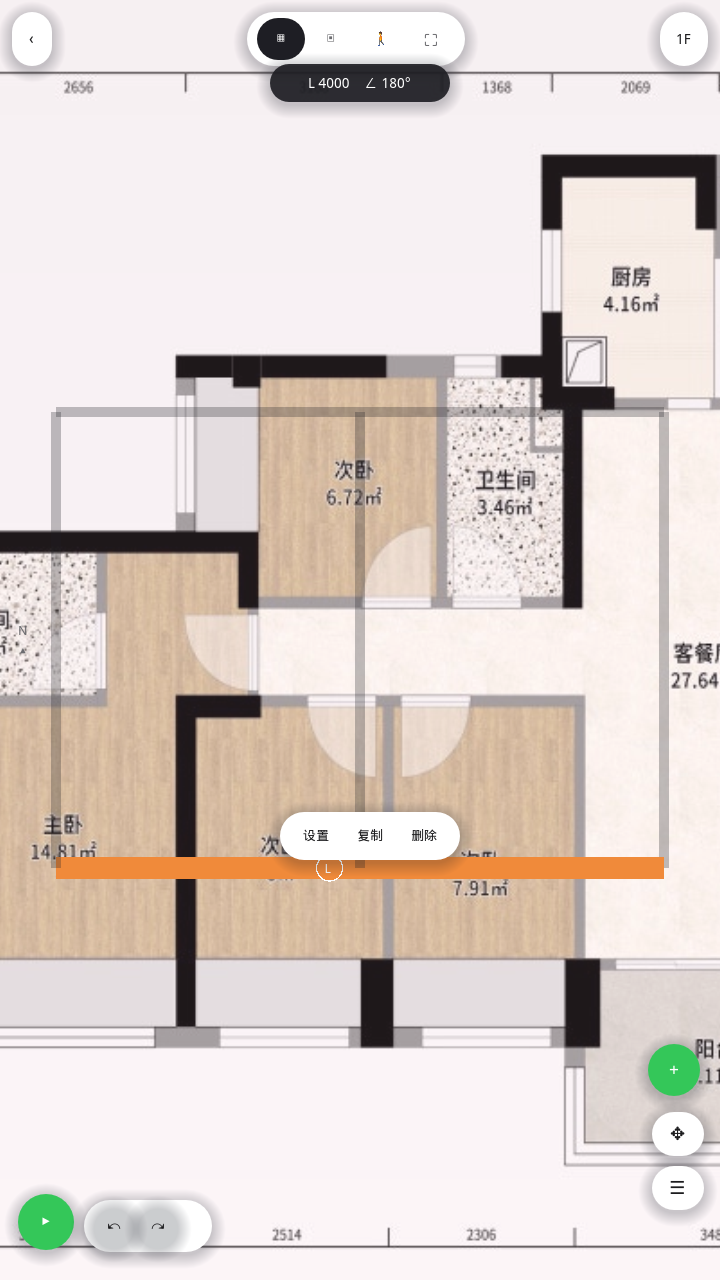
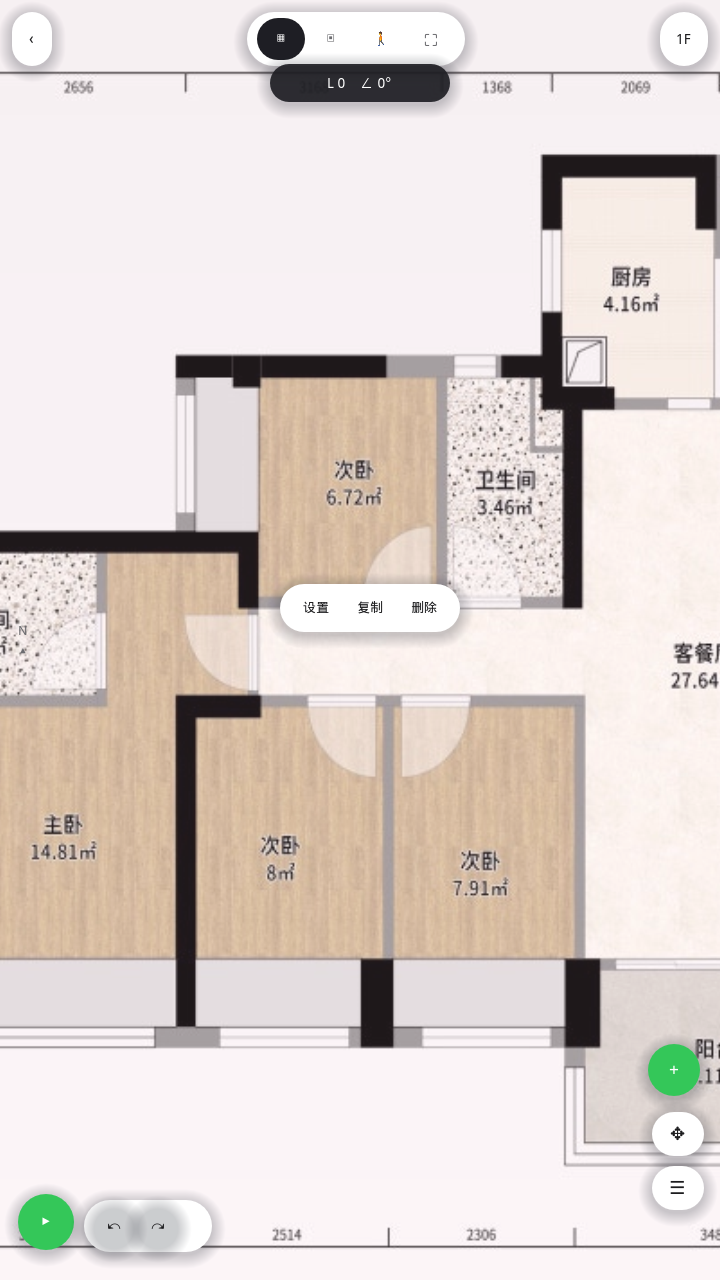
build(android): 0.1.5 (6) Debug APK for import scale+align
Signed with the pinned debug keystore. Scale ruler drag and wall-to-photo
registration for 导入户型图.

Changed region(s): [[0.0611, 0.3125, 0.9472, 0.6875], [0.5194, 0.0625, 0.55, 0.0938], [0.4583, 0.0625, 0.4889, 0.0938]]

diff --git a/docs/screenshots/joyplan_click_path/README.md b/docs/screenshots/joyplan_click_path/README.md
@@ -17,7 +17,7 @@ Click path: Home → **我的项目** → **新建项目** → **导入户型图
 
 `capture_click_path.gd` copies the sample plan to a cache JPEG (same shape as the Android plugin) then stores it so 1/2 shows that image, not a blank/demo fill.
 
-## Android APIs (0.1.4)
+## Android APIs (0.1.5)
 
 **相册选择** (`TopoRoomMediaPlugin.pick_gallery`):
 
@@ -34,15 +34,17 @@ Quick-cancel &lt;450ms retries the next Intent. `content://` → `ContentResolve
 
 **OEM caveats:** Photo Picker often opens-and-cancels on CN skins; do not put it first. API 31+ package visibility hides camera/gallery without `<queries>`. Xiaomi/Huawei HEIC albums are recompressed to JPEG. Some camera apps write `EXTRA_OUTPUT` then return canceled.
 
-## Debug APK 0.1.4 (`versionCode` 5)
+## Debug APK 0.1.5 (`versionCode` 6)
 
-Same debug cert as 0.1.0–0.1.3. Install over the previous build.
+Same debug cert as 0.1.0–0.1.4. Install over the previous build.
+
+0.1.5 polishes 导入户型图: 1/2 scale ruler handles+bar drag on phone; 2/2 walls register onto the floor-plan photo (`mm_per_px` + origin + COVER fit).
 
 | | |
 |---|---|
-| Package | `com.toporoom.godot` **0.1.4** (`versionCode` 5) arm64-v8a Debug |
+| Package | `com.toporoom.godot` **0.1.5** (`versionCode` 6) arm64-v8a Debug |
 | File | `toporoom-android-debug.apk` (75 MB) |
[3 lines of base64/hex data omitted]
-| Direct | https://litter.catbox.moe/d96kp3.apk |
-| Mirror | https://gofile.io/d/B99XkKzo |
+| Direct | https://litter.catbox.moe/ir5ukreea8ezjmfn.apk |
+| Mirror | https://gofile.io/d/sq76niVp |

diff --git a/docs/screenshots/joyplan_flow/README.md b/docs/screenshots/joyplan_flow/README.md
@@ -21,11 +21,11 @@ new `joyplan_flow/` scene graph. Not the quarantined `_legacy/` workbench.
 
 | | |
 |---|---|
-| Package | `com.toporoom.godot` **0.1.4** (`versionCode` 5) arm64-v8a |
+| Package | `com.toporoom.godot` **0.1.5** (`versionCode` 6) arm64-v8a |
 | File | `toporoom-android-debug.apk` (75 MB) |
[3 lines of base64/hex data omitted]
-| Direct | https://litter.catbox.moe/d96kp3.apk |
-| Mirror | https://gofile.io/d/B99XkKzo |
+| Direct | https://litter.catbox.moe/ir5ukreea8ezjmfn.apk |
+| Mirror | https://gofile.io/d/sq76niVp |
 
-Same signature as **0.1.0–0.1.3** — install over the previous Debug APK without uninstall. Contains `lib/arm64-v8a/libtoporoom.android.template_debug.arm64.so`. Export filter excludes `app/_legacy/*`. Camera / gallery / vibrate permissions present. `main.tscn` boots JoyPlan home (我的项目 → 工程项目 → 导入户型图). Click-path captures: `docs/screenshots/joyplan_click_path/`.
+Same signature as **0.1.0–0.1.4** — install over the previous Debug APK without uninstall. Contains `lib/arm64-v8a/libtoporoom.android.template_debug.arm64.so`. Export filter excludes `app/_legacy/*`. Camera / gallery / vibrate permissions present. `main.tscn` boots JoyPlan home (我的项目 → 工程项目 → 导入户型图). Click-path captures: `docs/screenshots/joyplan_click_path/`.

diff --git a/docs/screenshots/joyplan_1to1/README.md b/docs/screenshots/joyplan_1to1/README.md
@@ -21,11 +21,11 @@ Boot: **usable home** (`s1_home.png`) with 示例户型 / 相册导入 / 拍照.
 
 | | |
 |---|---|
-| Package | `com.toporoom.godot` **0.1.4** (`versionCode` 5) arm64-v8a Debug |
+| Package | `com.toporoom.godot` **0.1.5** (`versionCode` 6) arm64-v8a Debug |
 | File | `toporoom-android-debug.apk` (75 MB) |
[3 lines of base64/hex data omitted]
-| Direct | https://litter.catbox.moe/d96kp3.apk |
-| Mirror | https://gofile.io/d/B99XkKzo |
+| Direct | https://litter.catbox.moe/ir5ukreea8ezjmfn.apk |
+| Mirror | https://gofile.io/d/sq76niVp |
 
 Same signature as **0.1.0** so the phone can upgrade without uninstall. Keystore: `godot/android/keystore/debug.keystore`. Contains `lib/arm64-v8a/libtoporoom.android.template_debug.arm64.so`. Export filter excludes `app/_legacy/*`. Camera / gallery / vibrate + `READ_MEDIA_IMAGES` present. `main.tscn` boots JoyPlan home (我的项目 → 工程项目 → 导入户型图). `TopoRoomMedia` is in `classes.dex`. Click-path captures: `docs/screenshots/joyplan_click_path/`.
